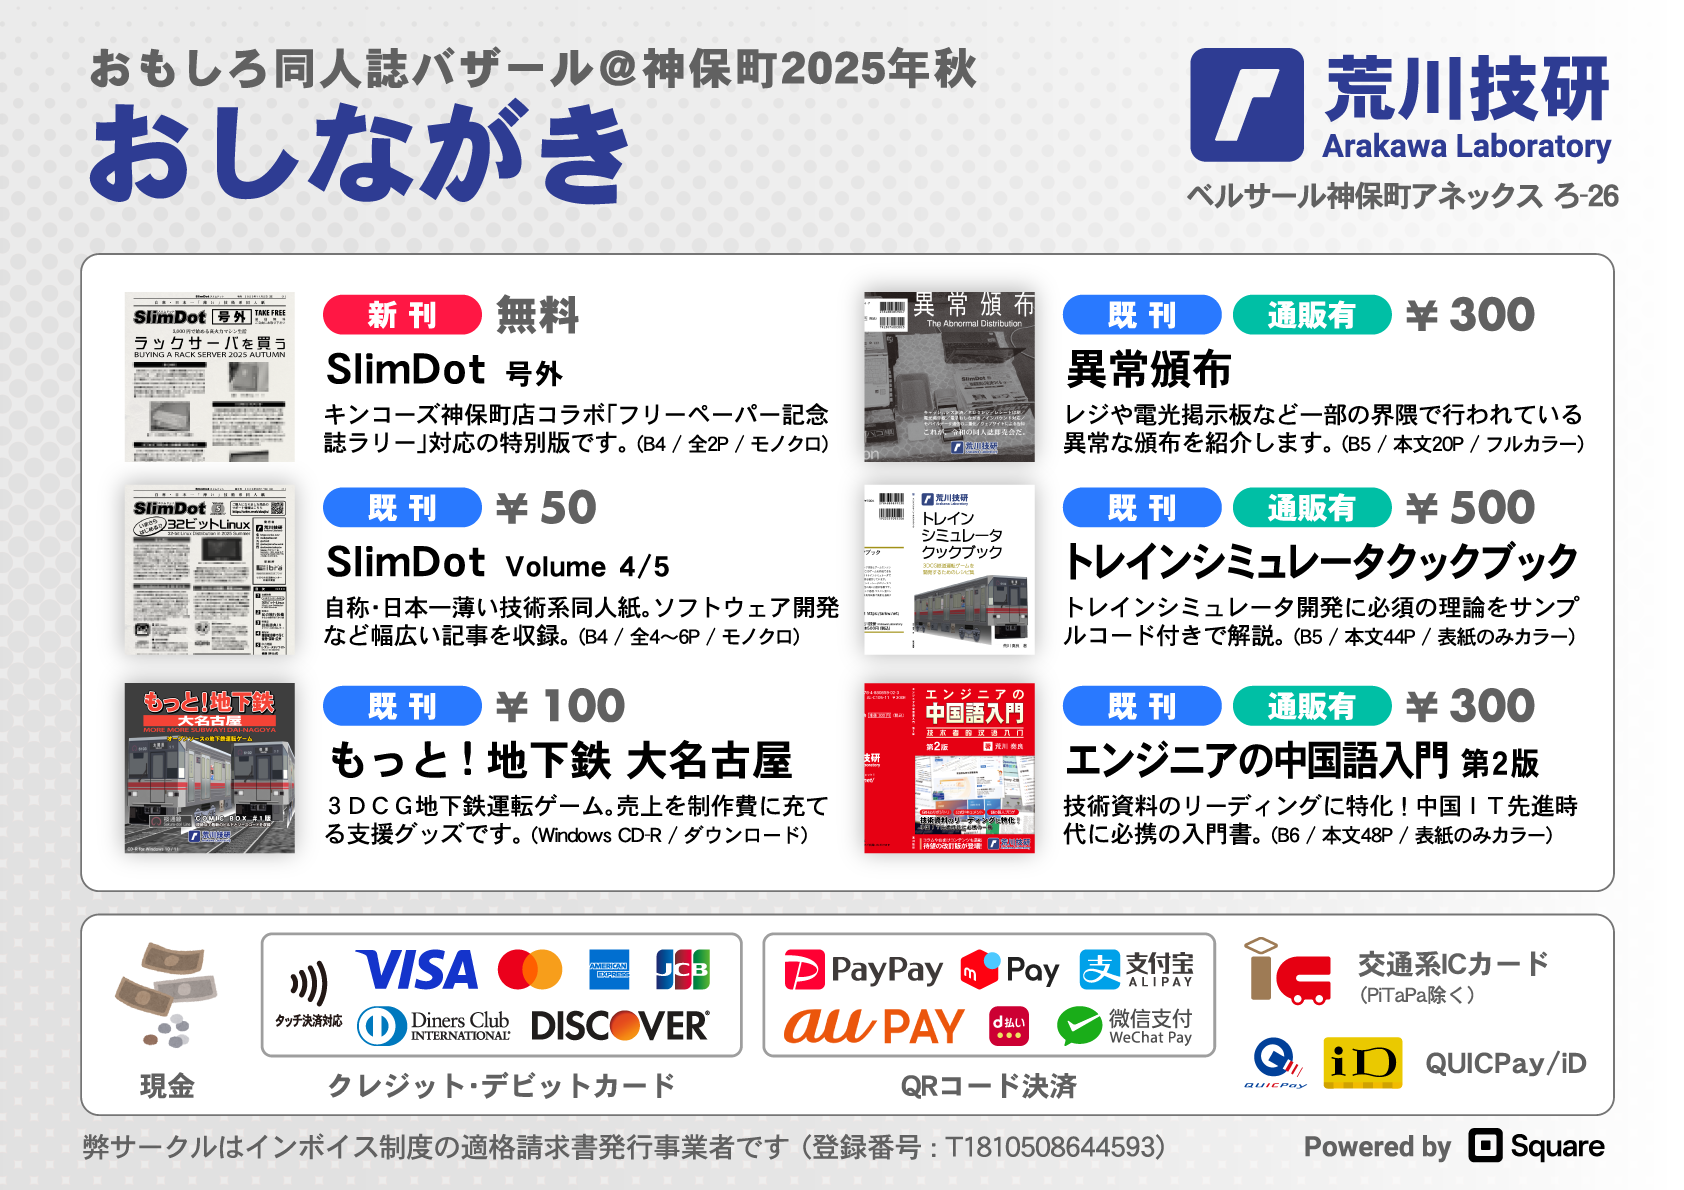
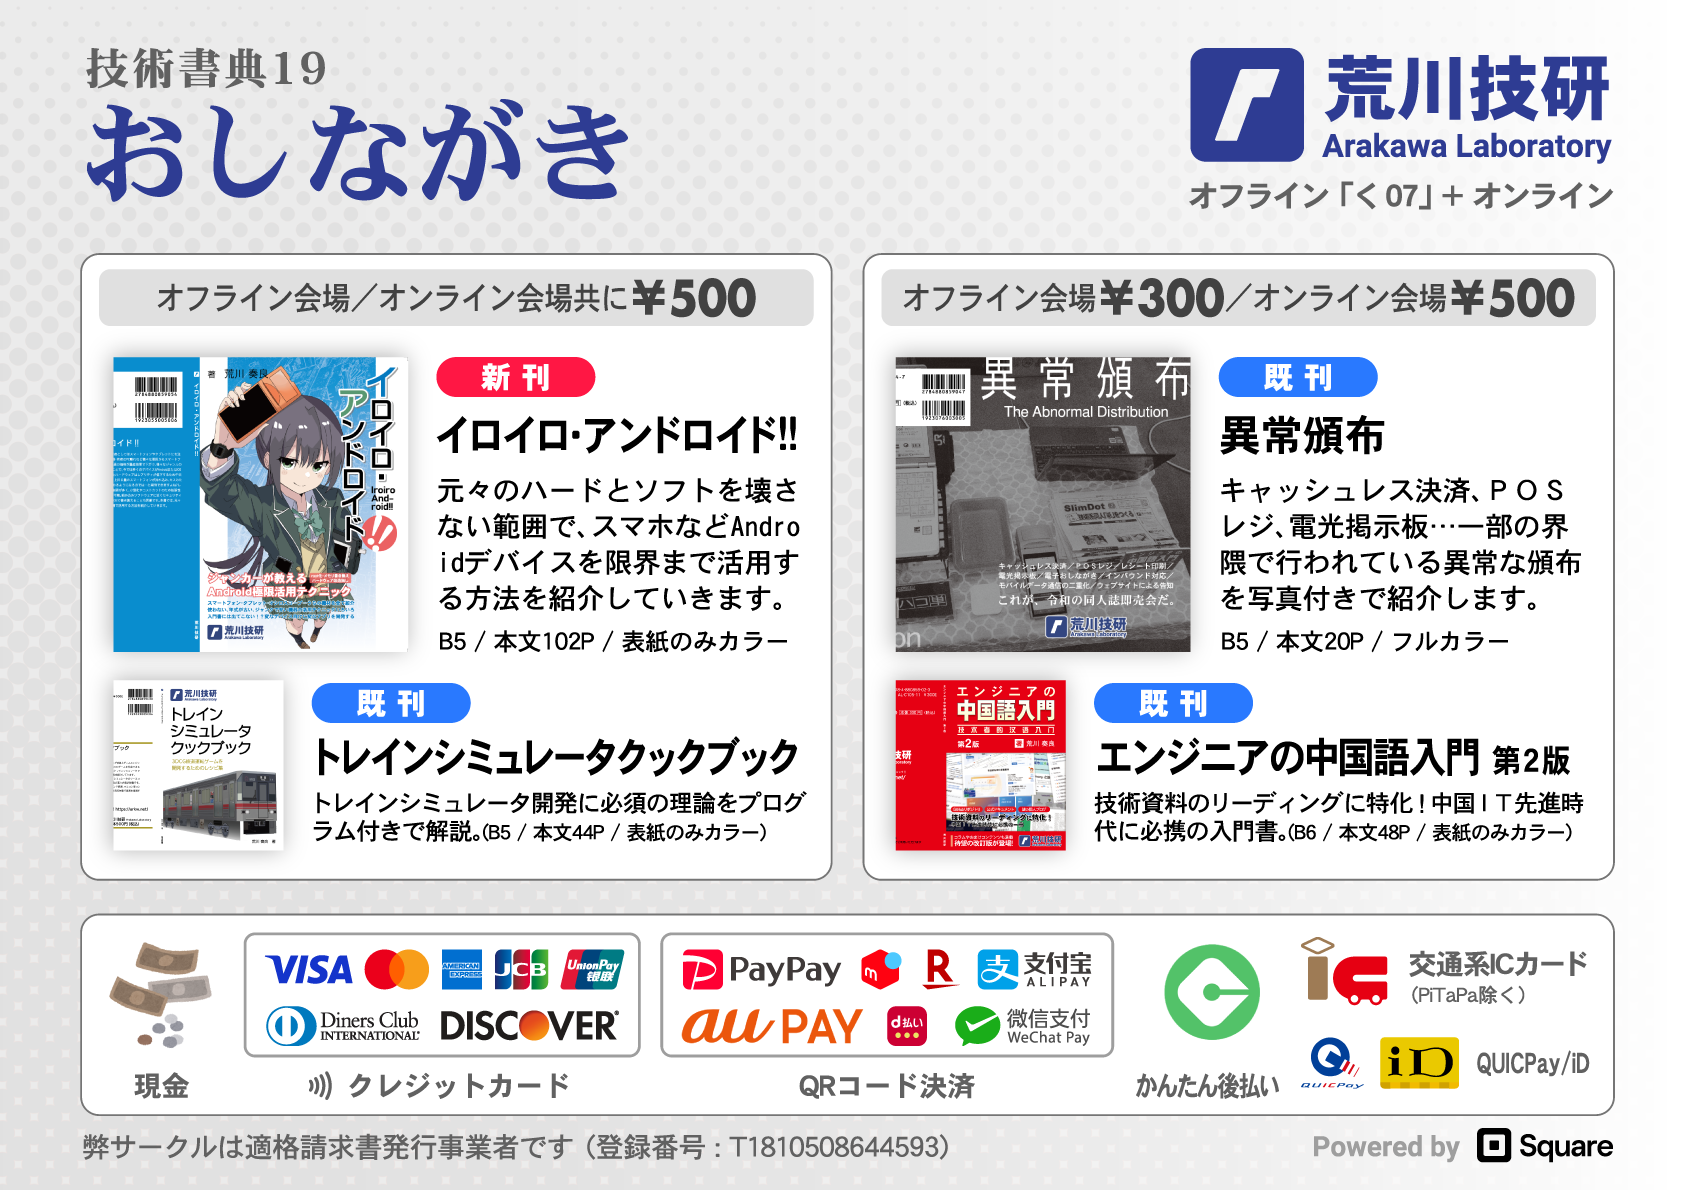
技術書典19

diff --git a/ALPS-FE/app/src/main/java/jp/arkw/alps/fe/MainActivity.java b/ALPS-FE/app/src/main/java/jp/arkw/alps/fe/MainActivity.java
@@ -102,12 +102,10 @@ public class MainActivity extends AppCompatActivity implements View.OnClickListe
         }
         fileLog = new File(context.getFilesDir(), "log.txt");
 
-        items.add(new Item("SlimDot Volume.5", 50, R.drawable.book, -1));
-        items.add(new Item("SlimDot Volume.4", 50, R.drawable.book, -1));
-        items.add(new Item("異常頒布", 300, R.drawable.book, -1));
-        items.add(new Item("ﾄﾚｲﾝｼﾐｭﾚｰﾀｸｯｸﾌﾞｯｸ", 500, R.drawable.book, -1));
-        items.add(new Item("ｴﾝｼﾞﾆｱの中国語入門 第2版", 300, R.drawable.book, -1));
-        items.add(new Item("もっと! 地下鉄 大名古屋", 100, R.drawable.gamecd, -1));
+        items.add(new Item("ｲﾛｲﾛ・ｱﾝﾄﾞﾛｲﾄﾞ!!", 500, R.drawable.book, R.drawable.qr4));
+        items.add(new Item("異常頒布", 300, R.drawable.book, R.drawable.qr3));
+        items.add(new Item("ﾄﾚｲﾝｼﾐｭﾚｰﾀｸｯｸﾌﾞｯｸ", 500, R.drawable.book, R.drawable.qr1));
+        items.add(new Item("ｴﾝｼﾞﾆｱの中国語入門 第2版", 300, R.drawable.book, R.drawable.qr2));
 
         textView = findViewById(R.id.text_view);
         textViewIP = findViewById(R.id.text_view_ip);
@@ -232,8 +230,7 @@ public class MainActivity extends AppCompatActivity implements View.OnClickListe
             boolean isMoney = intent.getBooleanExtra("IS_MONEY", false);
             // レシート印刷
             printImage(BitmapFactory.decodeResource(getResources(), R.drawable.receipt1));
-            printText("おもしろ同人誌ﾊﾞｻﾞｰﾙ神保町2025秋\n", 0);
-            printText("ﾍﾞﾙｻｰﾙ神保町ｱﾈｯｸｽ ろ-26\n", 0);
+            printText("技術書典19\nオフライン出展 (リアル会場) く07\n", 0);
             printImage(BitmapFactory.decodeResource(getResources(), R.drawable.receipt2));
             printText("登録番号 T1810508644593\n", 2);
             Date date = new Date();
@@ -277,6 +274,7 @@ public class MainActivity extends AppCompatActivity implements View.OnClickListe
                     if (item.getPrint() != -1 && payment.contains(getResources().getString(R.string.payment_tbf)) == false) {
                         printText("\n------------ ｷ ﾘ ﾄ ﾘ ------------\n", 1);
                         printImage(BitmapFactory.decodeResource(getResources(), item.getPrint()));
+                        printText("[無断転載・公開禁止]\nダウンロード期限: 2025年12月31日\n読み取れない時はﾚｼｰﾄに記載の\n連絡先へお問い合わせ下さい\n", 1);
                     }
                 }
             }

diff --git a/ALPS-FE/app/src/main/java/jp/arkw/alps/fe/PurchaseActivity.java b/ALPS-FE/app/src/main/java/jp/arkw/alps/fe/PurchaseActivity.java
@@ -25,6 +25,7 @@ public class PurchaseActivity extends AppCompatActivity implements View.OnClickL
         findViewById(R.id.button_payment_id).setOnClickListener(this);
         findViewById(R.id.button_payment_ic).setOnClickListener(this);
         findViewById(R.id.button_payment_qr).setOnClickListener(this);
+        findViewById(R.id.button_payment_tbf).setOnClickListener(this);
         findViewById(R.id.button_payment_other).setOnClickListener(this);
         findViewById(R.id.button_cancel).setOnClickListener(this);
         Intent intent = getIntent();
@@ -71,6 +72,8 @@ public class PurchaseActivity extends AppCompatActivity implements View.OnClickL
             finishPurchase(getString(R.string.payment_ic), total, 0, false);
         } else if (v.getId() == R.id.button_payment_qr) {
             finishPurchase(getString(R.string.payment_qr), total, 0, false);
+        } else if (v.getId() == R.id.button_payment_tbf) {
+            finishPurchase(getString(R.string.payment_tbf), total, 0, false);
         } else if (v.getId() == R.id.button_payment_other) {
             finishPurchase(getString(R.string.payment_other), total, 0, false);
         } else if (v.getId() == R.id.button_cancel) {
